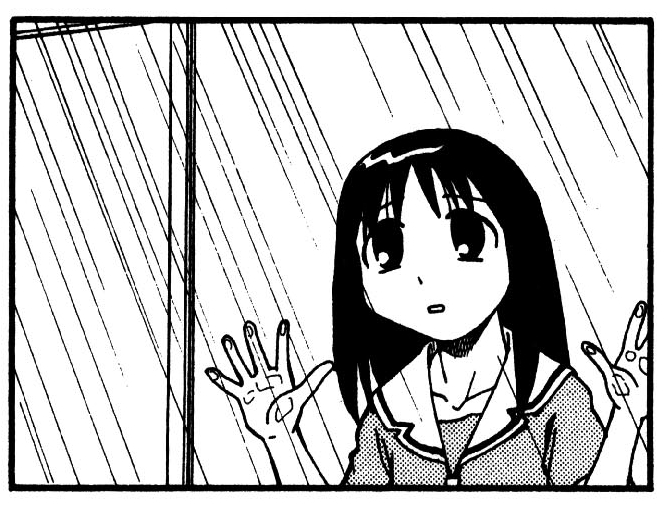
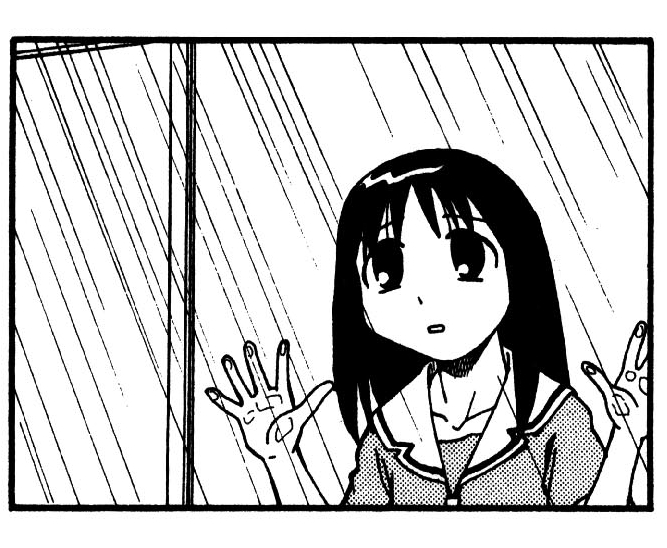
And Then There Was Light

diff --git a/app.js b/app.js
@@ -1,6 +1,7 @@
 
 let container = document.querySelector('.container');
 let images = [...document.querySelectorAll('.img')];
+
 let thunder = document.getElementById('thunder');
 thunder.volume = 0.4;
 
@@ -10,6 +11,8 @@ images.forEach((image, _) => {
     image.style.backgroundImage = `url(media/saker-0.png)`;
 });
 images[8].style.backgroundImage = `url(media/saker-1.png)`;
+
+document.body.style.backgroundImage = 'url(media/rain.gif)'
 
 function addPanel() {
     let panel = document.createElement('div');
@@ -22,6 +25,9 @@ function addPanel() {
     container.appendChild(panel);
 }
 
+function lightning() {
+}
+
 function scrollUpdate() {
     scrollPos = window.scrollY + window.innerHeight;
     if (scrollPos > document.body.offsetHeight*0.95) {
@@ -29,12 +35,19 @@ function scrollUpdate() {
     }
 
     let img_height = images[0].scrollHeight;
-    let img_idx = Math.round(window.scrollY/img_height + 1);
-    if(vals[img_idx] == 1) {
+    let img_idx = Math.round(window.scrollY/img_height + 0.5);
+    if(vals[img_idx] == 1 || vals[img_idx - 1] == 1) {
+        document.body.style.backgroundImage = 'url(media/lightning.gif)'
         thunder.play();
+    } else {
+        document.body.style.backgroundImage = 'url(media/rain.gif)';
     }
 
     requestAnimationFrame(scrollUpdate);
 }
 
-scrollUpdate();
+function onLoad() {
+    scrollUpdate();
+}
+
+onLoad();

diff --git a/style.css b/style.css
@@ -1,3 +1,6 @@
+body {
+    margin: 0;
+}
 
 .container {
     margin-left: 33%;
@@ -7,7 +10,7 @@
 }
 
 .img {
-    width: 30vw;
-    height: 22vw;
+    width: 33vw;
+    height: 26vw;
     background-size: cover;
 }
